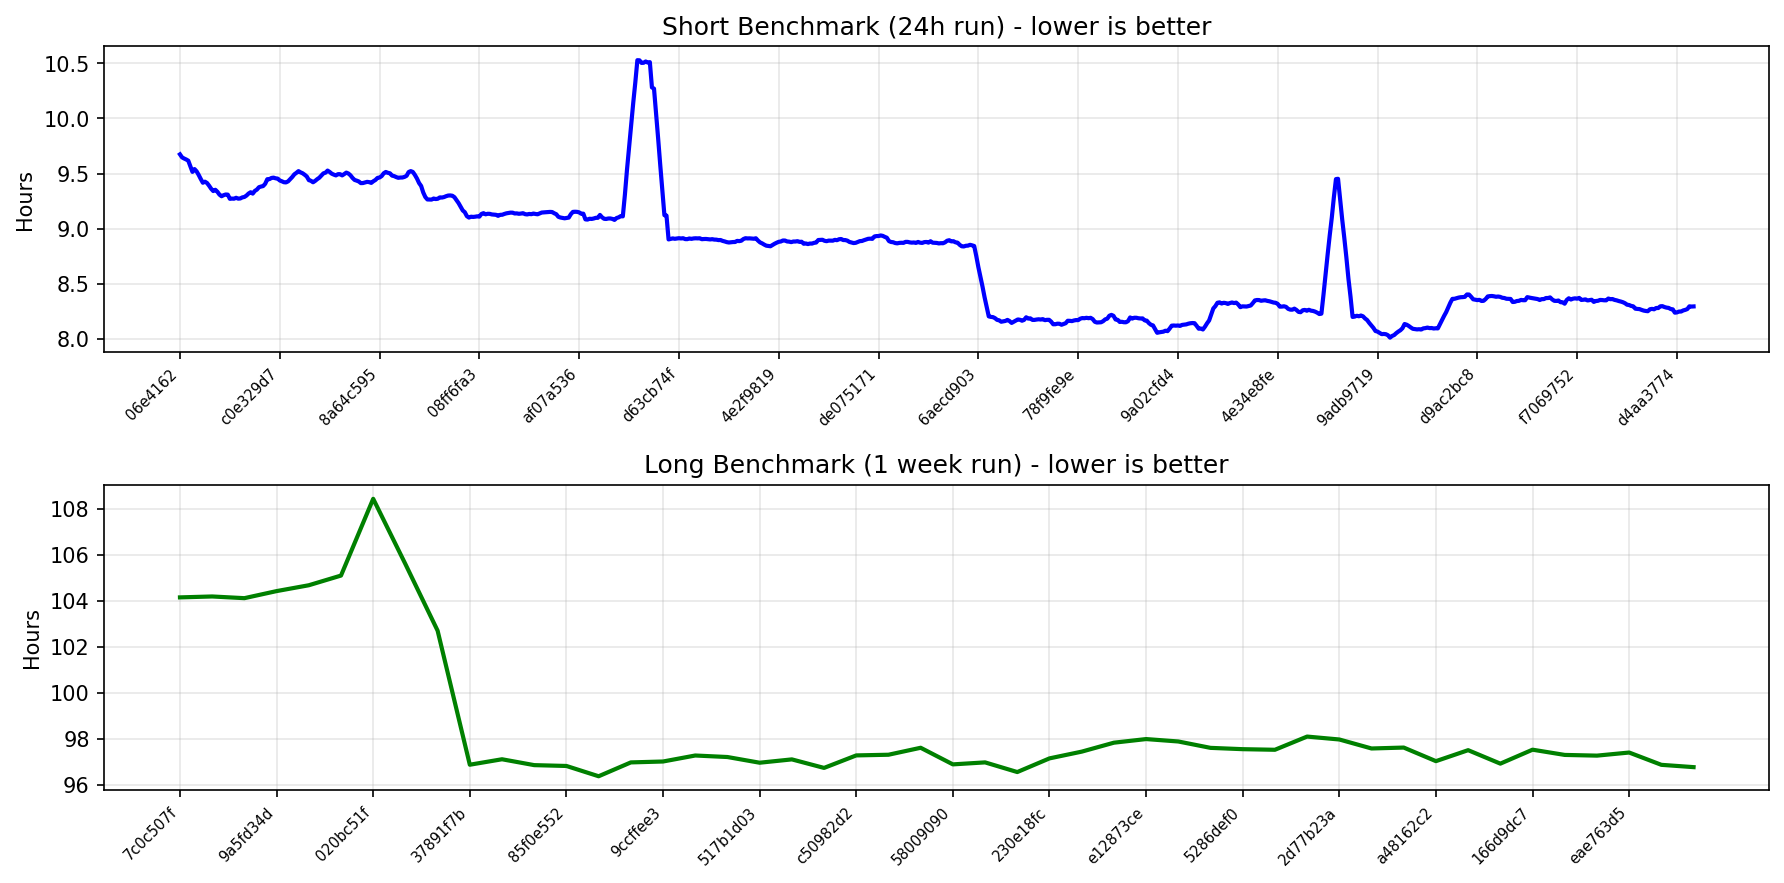
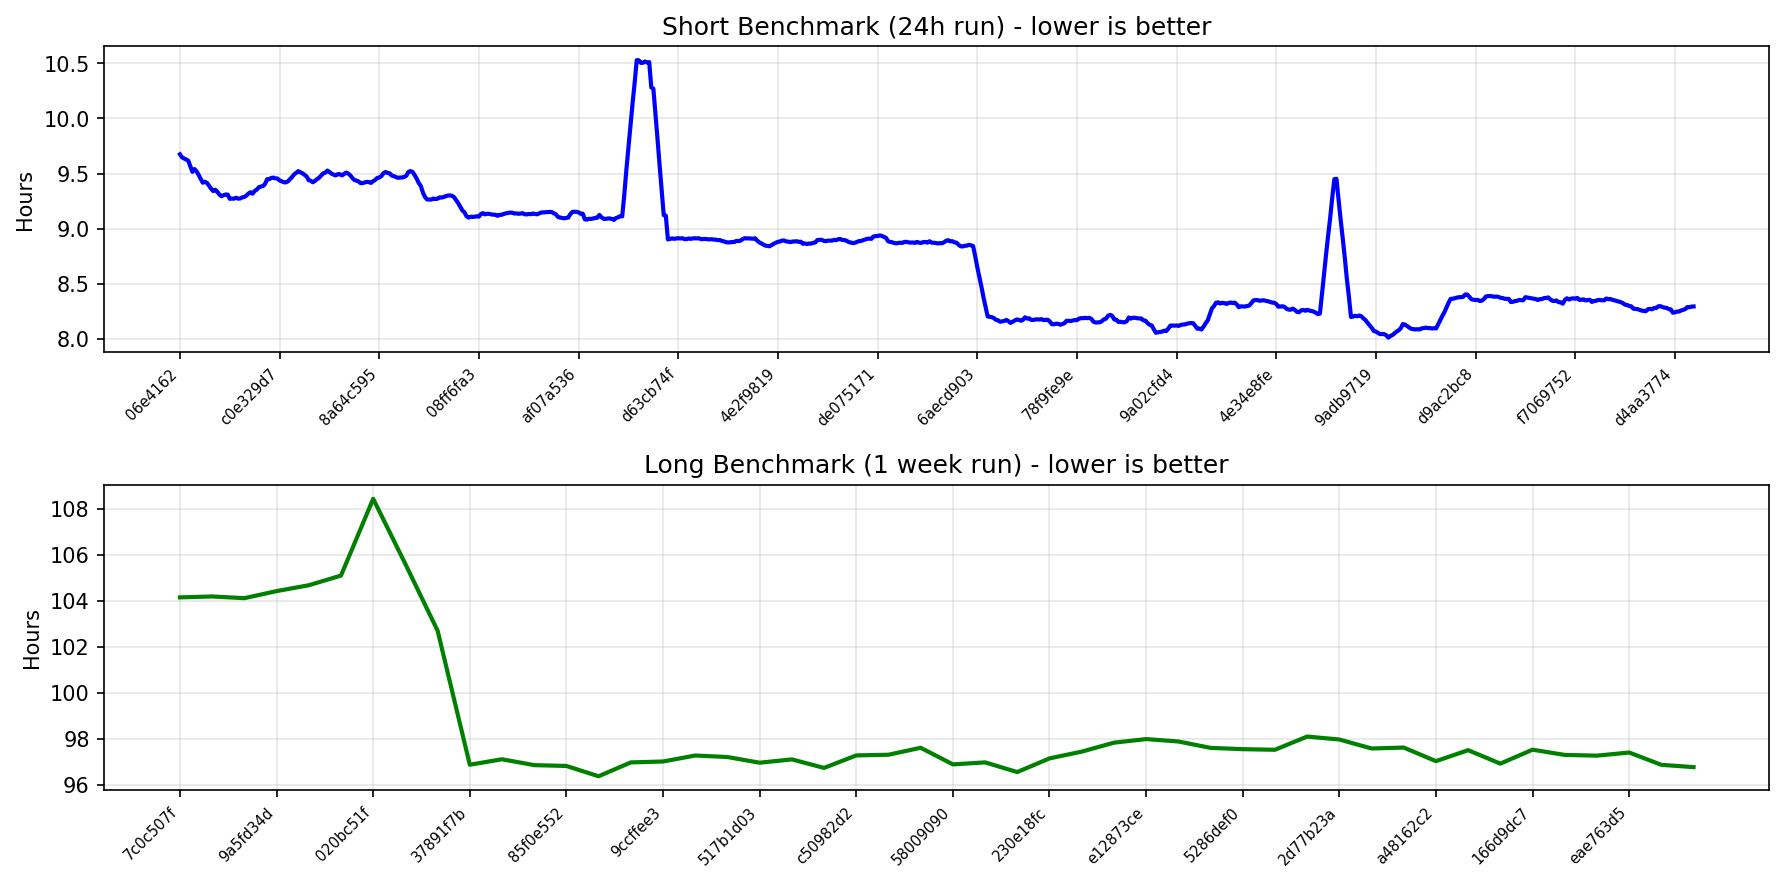
chore: update short benchmark Readme

diff --git a/README.md b/README.md
@@ -12,11 +12,11 @@ This repository contains various eth1 import benchmark metrics.
 
 | Generated At | Baseline SHA | Contender SHA | Baseline Time | Contender Time | Time Delta |
 |--------------|--------------|---------------|---------------|----------------|------------|
+| 2026-06-10 13:21:36 | [155442ed](https://github.com/status-im/nimbus-eth1/commit/155442ed) | [ca97b033](https://github.com/status-im/nimbus-eth1/commit/ca97b033) | 8h19m41s | 8h16m49s | -2m51s, -0.57% |
 | 2026-06-10 04:47:38 | [445642a7](https://github.com/status-im/nimbus-eth1/commit/445642a7) | [155442ed](https://github.com/status-im/nimbus-eth1/commit/155442ed) | 8h16m27s | 8h19m41s | 3m13s, 0.65% |
 | 2026-06-09 20:15:42 | [d02e0ae7](https://github.com/status-im/nimbus-eth1/commit/d02e0ae7) | [445642a7](https://github.com/status-im/nimbus-eth1/commit/445642a7) | 8h17m55s | 8h16m27s | -1m28s, -0.30% |
 | 2026-06-09 11:42:32 | [0ad49e82](https://github.com/status-im/nimbus-eth1/commit/0ad49e82) | [d02e0ae7](https://github.com/status-im/nimbus-eth1/commit/d02e0ae7) | 8h15m52s | 8h17m55s | 2m3s, 0.42% |
 | 2026-06-09 03:11:19 | [95b80fd3](https://github.com/status-im/nimbus-eth1/commit/95b80fd3) | [0ad49e82](https://github.com/status-im/nimbus-eth1/commit/0ad49e82) | 8h17m25s | 8h15m52s | -1m32s, -0.31% |
-| 2026-06-08 18:37:48 | [b83fb394](https://github.com/status-im/nimbus-eth1/commit/b83fb394) | [95b80fd3](https://github.com/status-im/nimbus-eth1/commit/95b80fd3) | 8h17m19s | 8h17m25s | 5s, 0.02% |
 
 ## Latest 5 Long Benchmarks (1 Week Run)
 